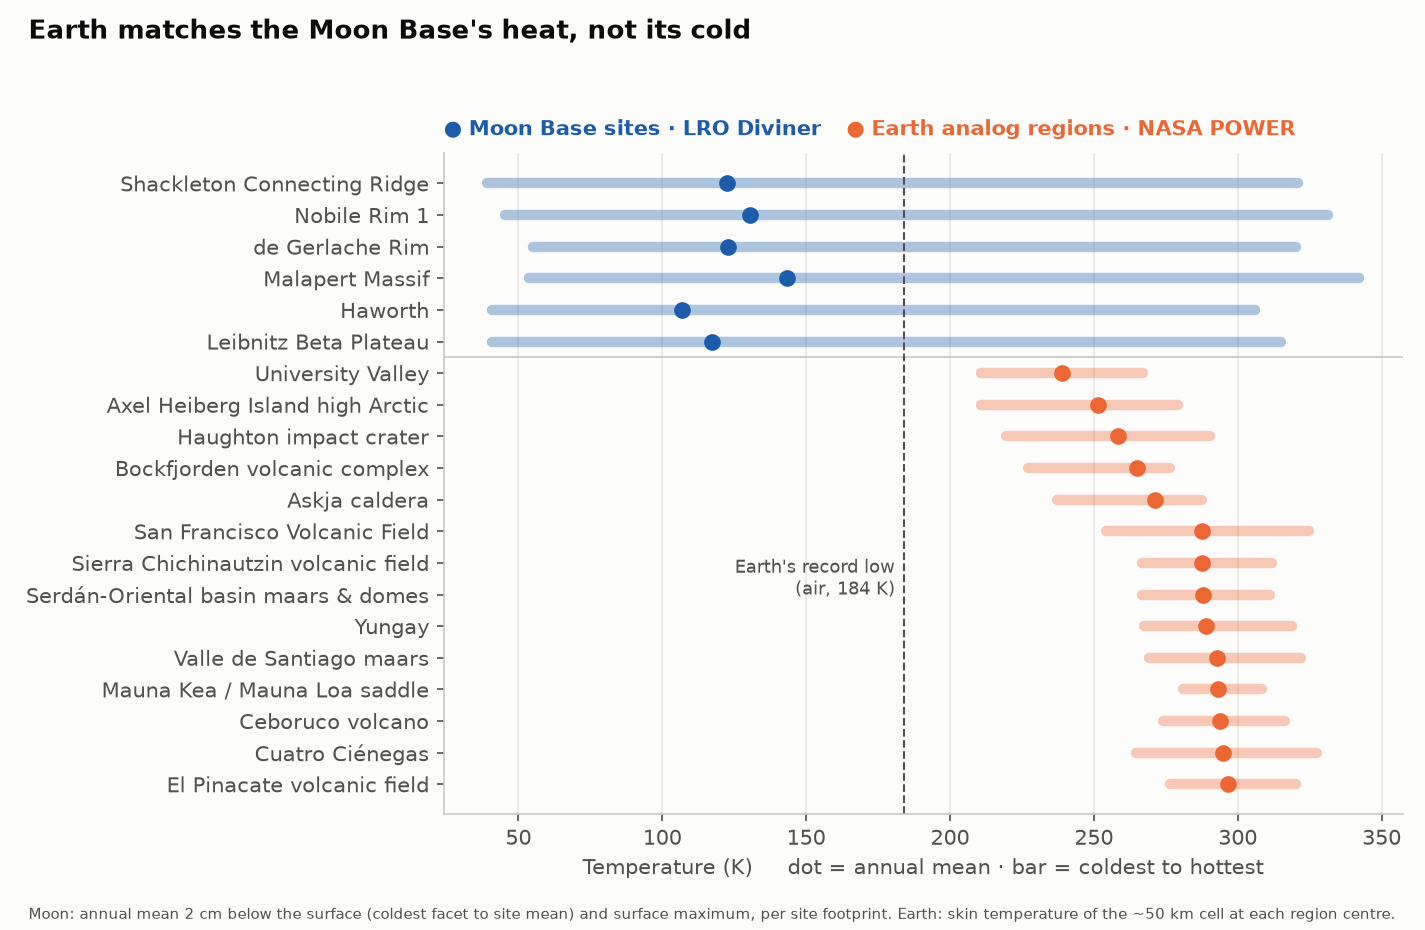
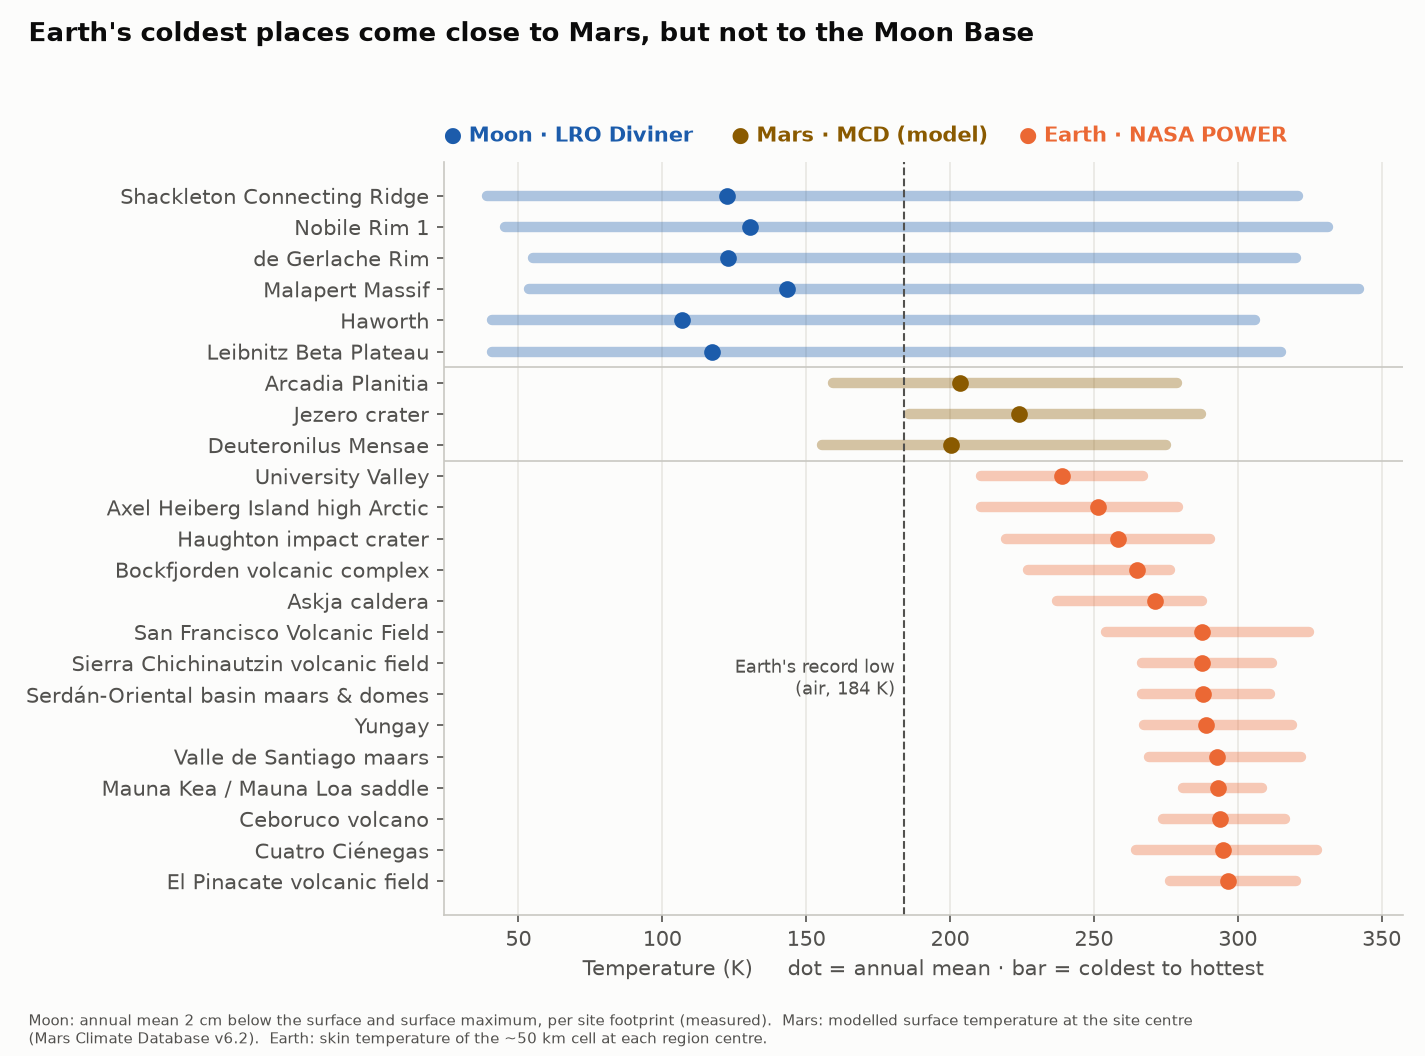
Mars context: surface temperature and pressure at the Mars sites (Mars Climate Database)
- scripts/mars_context.py asks the public web interface of the Mars Climate Database v6.2 (LMD/OU/IAA, supported by
  ESA and CNES) for surface temperature and pressure at the centre of each Mars reference, 12 seasons x 24 local
  hours, and caches the answers in data/processed/mars_context.json. Modelled values, context only, not scored.
- fig8 now shows Moon (Diviner), Mars (MCD) and Earth (NASA POWER) together: the Mars sites average 200-224 K,
  15-38 K colder than University Valley; the Moon Base sites are 95-132 K colder.
- Mars analog cards list mean temperature, range and pressure (680-830 Pa, under 1 % of sea level).
- make extras runs it before thermal_gap.py; README, METHOD, SUBMISSION and TEAM updated.

diff --git a/scripts/thermal_gap.py b/scripts/thermal_gap.py
@@ -61,6 +61,12 @@ for sid, s in cfg["sites"].items():
 moon = {sid: dict(label=short(sid), temp_avg_mean_K=v["temp_avg_mean_K"], temp_avg_min_K=v["temp_avg_min_K"],
                   temp_max_max_K=v["temp_max_max_K"]) for sid, v in div["sites"].items()}
 
+# Mars reference sites (Mars Climate Database, written by scripts/mars_context.py); optional
+mc = PROCESSED / "mars_context.json"
+mars = json.load(open(mc, encoding="utf-8"))["sites"] if mc.exists() else {}
+for m in mars.values():
+    m["label"] = m["label"].split("·", 1)[-1].split("(")[0].strip()
+
 coldest = min(earth, key=lambda k: earth[k]["ts_mean_K"])
 hottest = max(earth, key=lambda k: earth[k]["ts_max_K"])
 summary = dict(
@@ -74,9 +80,15 @@ summary = dict(
     # how much colder each Moon site's mean is than the mean of the coldest Earth region
     gap_to_coldest_earth_mean_K={sid: round(earth[coldest]["ts_mean_K"] - m["temp_avg_mean_K"], 1) for sid, m in moon.items()},
 )
-json.dump(dict(moon=moon, earth=earth, summary=summary,
+if mars:
+    summary["mars_mean_K"] = [min(m["tsurf_mean_K"] for m in mars.values()), max(m["tsurf_mean_K"] for m in mars.values())]
+    summary["mars_gap_to_coldest_earth_mean_K"] = {sid: round(earth[coldest]["ts_mean_K"] - m["tsurf_mean_K"], 1)
+                                                   for sid, m in mars.items()}
+json.dump(dict(moon=moon, mars=mars, earth=earth, summary=summary,
                sources=dict(moon="LRO Diviner polar resource product, NASA PDS Geosciences (Paige et al.): annual mean "
                                  "2 cm below the surface, annual maximum at the surface, per reference footprint",
+                            mars="Mars Climate Database v6.2 (LMD/OU/IAA/ESA/CNES), modelled surface temperature at the "
+                                 "site centre over 12 seasons x 24 local hours (scripts/mars_context.py)",
                             earth="NASA POWER climatology API (MERRA-2): skin temperature TS at the region centre; "
                                   "min/max = coldest/warmest monthly mean of the daily minimum/maximum")),
           open(OUT, "w", encoding="utf-8"), indent=1, ensure_ascii=False)
@@ -87,14 +99,15 @@ import matplotlib
 matplotlib.use("Agg")
 import matplotlib.pyplot as plt
 
-SURF, INK, INK2, MOON, EARTH = "#fcfcfb", "#0b0b0b", "#52514e", "#1c5cab", "#eb6834"
+SURF, INK, INK2, MOON, EARTH, MARS = "#fcfcfb", "#0b0b0b", "#52514e", "#1c5cab", "#eb6834", "#8a5a00"
 plt.rcParams.update({"font.family": "DejaVu Sans", "font.size": 10, "axes.edgecolor": "#c9c8c2", "axes.labelcolor": INK2,
                      "xtick.color": INK2, "ytick.color": INK2, "figure.facecolor": SURF, "axes.facecolor": SURF,
                      "savefig.facecolor": SURF})
 rows = [(m["label"], m["temp_avg_min_K"], m["temp_avg_mean_K"], m["temp_max_max_K"], MOON) for m in moon.values()]
+rows += [(m["label"], m["tsurf_min_K"], m["tsurf_mean_K"], m["tsurf_max_K"], MARS) for m in mars.values()]
 rows += [(e["label"].split(",")[0], e["ts_min_K"], e["ts_mean_K"], e["ts_max_K"], EARTH)
          for e in sorted(earth.values(), key=lambda e: e["ts_mean_K"])]
-fig, ax = plt.subplots(figsize=(9.5, 6.2))
+fig, ax = plt.subplots(figsize=(9.5, 6.2 + 0.28 * len(mars)))
 for i, (lab, lo, mid, hi, col) in enumerate(rows):
     y = len(rows) - 1 - i
     ax.plot([lo, hi], [y, y], color=col, lw=5, alpha=0.35, solid_capstyle="round")
@@ -105,16 +118,20 @@ lowrec = div["earth_record_low_K"]
 ax.axvline(lowrec, color=INK2, lw=1, ls="--")
 ax.text(lowrec - 3, len(earth) / 2 - 0.5, f"Earth's record low\n(air, {lowrec:.0f} K)", ha="right", va="center",
         fontsize=8.5, color=INK2)
-ax.text(0.0, 1.02, "● Moon Base sites · LRO Diviner", transform=ax.transAxes, ha="left", va="bottom", color=MOON, fontweight="bold")
-ax.text(0.42, 1.02, "● Earth analog regions · NASA POWER", transform=ax.transAxes, ha="left", va="bottom", color=EARTH, fontweight="bold")
+ax.text(0.0, 1.02, "● Moon · LRO Diviner", transform=ax.transAxes, ha="left", va="bottom", color=MOON, fontweight="bold")
+if mars:
+    ax.axhline(len(earth) + len(mars) - 0.5, color="#c9c8c2", lw=0.8)
+    ax.text(0.30, 1.02, "● Mars · MCD (model)", transform=ax.transAxes, ha="left", va="bottom", color=MARS, fontweight="bold")
+ax.text(0.60 if mars else 0.42, 1.02, "● Earth · NASA POWER", transform=ax.transAxes, ha="left", va="bottom", color=EARTH, fontweight="bold")
 ax.set_xlabel("Temperature (K)     dot = annual mean · bar = coldest to hottest")
 ax.grid(axis="x", color="#e8e7e2", lw=0.8); ax.set_axisbelow(True)
 for sp in ["top", "right"]:
     ax.spines[sp].set_visible(False)
-fig.suptitle("Earth matches the Moon Base's heat, not its cold", x=0.02, ha="left", fontsize=12.5, color=INK,
-             fontweight="bold")
-fig.text(0.02, 0.012, "Moon: annual mean 2 cm below the surface (coldest facet to site mean) and surface maximum, per site footprint. "
-         "Earth: skin temperature of the ~50 km cell at each region centre.", fontsize=7.2, color=INK2)
+fig.suptitle("Earth's coldest places come close to Mars, but not to the Moon Base" if mars else
+             "Earth matches the Moon Base's heat, not its cold", x=0.02, ha="left", fontsize=12.5, color=INK, fontweight="bold")
+fig.text(0.02, 0.012, "Moon: annual mean 2 cm below the surface and surface maximum, per site footprint (measured)."
+         + ("  Mars: modelled surface temperature at the site centre\n(Mars Climate Database v6.2)." if mars else "")
+         + "  Earth: skin temperature of the ~50 km cell at each region centre.", fontsize=7.2, color=INK2)
 FIGURES.mkdir(parents=True, exist_ok=True)
-fig.tight_layout(rect=(0, 0.03, 1, 0.95)); fig.savefig(FIGURES / "fig8_thermal_gap.png", dpi=150)
+fig.tight_layout(rect=(0, 0.05, 1, 0.95)); fig.savefig(FIGURES / "fig8_thermal_gap.png", dpi=150)
 print("wrote", FIGURES / "fig8_thermal_gap.png")

diff --git a/scripts/mars_context.py b/scripts/mars_context.py
@@ -1,0 +1,91 @@
+"""Mars context: surface temperature and pressure at the Mars reference sites, next to Earth.
+
+The Moon sites have LRO Diviner measurements for "where Earth stops being an analog". Mars has no equivalent
+per-site product in our pipeline, so we use the Mars Climate Database v6.2 (LMD/OU/IAA, supported by ESA and CNES),
+a climate MODEL validated against orbiter data, through its public web interface. For the centre of each Mars
+reference we ask for surface temperature and surface pressure at every season (areocentric longitude Ls, every 30°
+in the rows we keep) and every local hour, with the "climatology" dust scenario.
+
+These are modelled values at a ~5.6° grid interpolated to the point, not measurements, and they are context only:
+nothing here is scored. scripts/thermal_gap.py (run after this one) puts them next to the Moon and Earth in fig8.
+
+Outputs
+  data/processed/mars_context.json      (the answers are cached there, so the script also runs offline)
+Usage:  python scripts/mars_context.py [--refresh]
+"""
+# AI-assisted (Claude, Anthropic); reviewed by the team.
+import sys, json, re, urllib.request
+from pathlib import Path
+sys.path.insert(0, str(Path(__file__).resolve().parents[1]))
+import numpy as np
+from pen.config import load_config, PROCESSED
+
+BASE = "https://www-mars.lmd.jussieu.fr/mcd_python/"
+QUERY = ("cgi-bin/mcdcgi.py?var1=tsurf&var2=ps&var3=none&var4=none&datekeyhtml=1&ls=all&localtime=all&year=2024&month=1"
+         "&day=1&hours=0&minutes=0&seconds=0&julian=2460310.5&martianyear=37&sol=1&latitude={lat:.3f}&longitude={lon:.3f}"
+         "&altitude=0.&zkey=3&isfixedlt=off&dust=1&hrkey=1&averaging=off&dpi=80&islog=off&colorm=jet&minval=&maxval="
+         "&proj=cyl&plat=&plon=&trans=&iswind=off&latpoint=&lonpoint=")
+OUT = PROCESSED / "mars_context.json"
+TRIPLE_POINT_PA = 611.657      # water: below this pressure liquid water is not stable at any temperature
+EARTH_SEA_LEVEL_PA = 101_325.0
+
+cfg = load_config()
+res = json.load(open(PROCESSED / "results.json", encoding="utf-8"))
+old = json.load(open(OUT, encoding="utf-8")) if OUT.exists() else {}
+refresh = "--refresh" in sys.argv
+
+
+def blocks(txt):
+    """The text file holds one table per variable: rows = Ls, columns = local time. Returns {title: 2D array}."""
+    out, title, rows = {}, None, []
+    for line in txt.splitlines() + ["###"]:
+        m = re.match(r"### Columns 2\+ are (.+)", line)
+        if line.startswith("###"):          # any header line closes the table before it
+            if title and rows:
+                out[title] = np.array(rows)
+                rows = []
+            title = m.group(1).strip() if m else title
+        elif re.match(r"^[+-]?\d", line) and "||" in line:
+            rows.append([float(v) for v in line.split("||")[1].split()])
+    return out
+
+
+def mcd_point(lon, lat):
+    with urllib.request.urlopen(BASE + QUERY.format(lon=lon, lat=lat), timeout=180) as r:
+        html = r.read().decode("utf-8", "replace")
+    href = re.search(r"\.\./(txt/[0-9a-f]+\.txt)", html).group(1)
+    with urllib.request.urlopen(BASE + href, timeout=60) as r:
+        b = blocks(r.read().decode("utf-8", "replace"))
+    t = next(v for k, v in b.items() if "temperature" in k.lower())[:-1, :-1]   # drop Ls = 360 and hour 24 (duplicates)
+    p = next(v for k, v in b.items() if "pressure" in k.lower())[:-1, :-1]
+    return dict(tsurf_mean_K=round(float(t.mean()), 1), tsurf_min_K=round(float(t.min()), 1),
+                tsurf_max_K=round(float(t.max()), 1), ps_mean_Pa=round(float(p.mean())),
+                ps_min_Pa=round(float(p.min())), ps_max_Pa=round(float(p.max())),
+                share_above_freezing=round(float((t > 273.15).mean()), 3), n_samples=int(t.size))
+
+
+mars = {}
+for sid, s in cfg["sites"].items():
+    if s["body"] != "mars" or s["role"] != "reference" or sid not in res["site_centers"]:
+        continue
+    lon, lat = res["site_centers"][sid]
+    cached = old.get("sites", {}).get(sid)
+    if cached and not refresh:
+        mars[sid] = cached
+    else:
+        mars[sid] = dict(label=s["label"], lon=round(lon, 3), lat=round(lat, 3), **mcd_point(lon, lat))
+        print("MCD", sid, mars[sid], flush=True)
+
+summary = dict(
+    mars_mean_K=[min(m["tsurf_mean_K"] for m in mars.values()), max(m["tsurf_mean_K"] for m in mars.values())],
+    mars_min_K=min(m["tsurf_min_K"] for m in mars.values()),
+    mars_max_K=max(m["tsurf_max_K"] for m in mars.values()),
+    mars_pressure_Pa=[min(m["ps_min_Pa"] for m in mars.values()), max(m["ps_max_Pa"] for m in mars.values())],
+    pressure_share_of_earth_sea_level=[round(min(m["ps_mean_Pa"] for m in mars.values()) / EARTH_SEA_LEVEL_PA, 4),
+                                       round(max(m["ps_mean_Pa"] for m in mars.values()) / EARTH_SEA_LEVEL_PA, 4)],
+)
+json.dump(dict(sites=mars, summary=summary, water_triple_point_Pa=TRIPLE_POINT_PA, earth_sea_level_Pa=EARTH_SEA_LEVEL_PA,
+               source="Mars Climate Database v6.2 (LMD/OU/IAA/ESA/CNES), web interface, climatology scenario: modelled "
+                      "surface temperature and pressure at the site centre, 12 seasons x 24 local hours"),
+          open(OUT, "w", encoding="utf-8"), indent=1, ensure_ascii=False)
+print("summary", summary)

diff --git a/app/streamlit_app.py b/app/streamlit_app.py
@@ -81,7 +81,20 @@ def cant_reproduce(ref, body):
                  f"Water ice thermally stable within 1 m in **{dv['share_ice_stable_within_1m']:.0%}** of it "
                  f"(median depth {dv['median_ice_depth_m']*100:.0f} cm)",
                  f"Surface peaks reach {dv['temp_max_max_K']:.0f} K ({dv['temp_max_max_K']-273.15:.0f} °C)"] + items
+    mc = mars_context().get("sites", {}).get(ref)
+    if mc:   # modelled, not measured: Mars Climate Database v6.2 (scripts/mars_context.py)
+        items = [f"Surface averages **{mc['tsurf_mean_K']:.0f} K** ({mc['tsurf_mean_K']-273.15:.0f} °C) over the year, from "
+                 f"{mc['tsurf_min_K']:.0f} K at night to {mc['tsurf_max_K']:.0f} K at midday; above freezing only "
+                 f"{mc['share_above_freezing']:.0%} of the time (Mars Climate Database, model)",
+                 f"Air pressure **{mc['ps_mean_Pa']:.0f} Pa**, {mc['ps_mean_Pa']/101325:.1%} of Earth's sea level and close to "
+                 f"water's triple point (612 Pa)"] + items
     return items
+
+
+@st.cache_data(show_spinner=False)
+def mars_context():
+    p = PROCESSED / "mars_context.json"
+    return json.load(open(p, encoding="utf-8")) if p.exists() else {}
 
 refs = [r for r in cfg["sites"] if cfg["sites"][r]["role"] == "reference" and r in set(win.reference)]
 cands = [c for c in cfg["sites"] if cfg["sites"][c]["role"] == "candidate" and c in set(win.site)]

diff --git a/README.md b/README.md
@@ -60,6 +60,10 @@ the official 5 m LOLA DEMs of six Moon Base sites, five of them inside NASA's Ar
   search, University Valley in Antarctica, has a mean skin temperature of 239 K (NASA POWER). The Moon Base sites
   average 107–144 K, which is 95–132 K colder. The heat is within reach: Earth's desert regions peak at up to 328 K,
   against lunar surface peaks of 306–342 K (fig8).
+- **Mars is a much closer thermal match than the Moon.** The Mars Climate Database (a model, v6.2) gives the three
+  Mars sites a mean surface temperature of 200–224 K, only 15–38 K colder than University Valley, with midday peaks
+  of 275–287 K. What Earth cannot give is the air: 680–830 Pa on average, under 1 % of sea level and close to water's
+  triple point (612 Pa). Every Mars analog card now shows these numbers.
 - **Analog in time:** polar sites (Haughton, Axel Heiberg, Svalbard, University Valley) give 4–7 h/day of
   lunar-pole-like low Sun (0–7°) around the equinoxes; sites below 40° latitude get about 1 h/day.
 - **NASA APIs in the app** ([api.nasa.gov](https://api.nasa.gov/)): Moon Trek WMTS (LRO NAC south-pole mosaic, 1 m),
@@ -86,6 +90,7 @@ the official 5 m LOLA DEMs of six Moon Base sites, five of them inside NASA's Ar
 | Sensitivity to weights and window size | `scripts/sensitivity.py`, fig5 | Victor |
 | LRO Diviner temperature and ice context for the Moon sites | `scripts/diviner_context.py`, fig6 | D. Lizárraga |
 | Diviner vs Earth analog regions (NASA POWER skin temperature) | `scripts/thermal_gap.py`, fig8 | D. Lizárraga |
+| Mars surface temperature and pressure per Mars site (Mars Climate Database), in fig8 and on the Mars analog cards | `scripts/mars_context.py` | D. Lizárraga |
 | Moon/Mars data paragraph for the project page; Mars DTMs checked against their headers (metres above the MOLA geoid, R = 3,396,190 m) | `docs/SUBMISSION.md` | D. Lizárraga |
 | Analog in time (hours/day of 0–7° Sun per month) | `pen/sun.py`, fig3 | Victor |
 | Dark app with 3D globe / flat map, colour-by-dimension, NASA reference analog markers, dynamic `DIMENSIONS` support, analog card with low-Sun previews, validation tab, CSV download | `app/` | Paul · Aaron |
@@ -124,7 +129,7 @@ make data        # python scripts/download_data.py
 make pipeline    # python scripts/run_pipeline.py
 make validate    # python scripts/validate_illumination.py
 make figures     # python scripts/make_figures.py
-make extras      # thumbnails, known-analog test, sensitivity, Diviner context, thermal gap
+make extras      # thumbnails, known-analog test, sensitivity, Diviner and Mars context, thermal gap
 make far         # far-horizon light validation (~4 min, needs the 230 MB LOLA polar DEM)
 make imagery     # real NASA imagery for the analog cards (Trek WMTS + GIBS, ~150 requests, no API key)
 make eonet       # refresh the offline EONET snapshot
@@ -230,6 +235,10 @@ mean is colder than Earth's record low (184 K, Vostok), and the share where wate
 POWER climatology API (MERRA-2, 2001–2025, no key) for the skin temperature TS (annual mean) and for TS_MIN / TS_MAX
 (coldest / warmest monthly mean of the daily extremes), and writes `thermal_gap.json` and fig8. This is region scale
 (a ~50 km model cell, so Mauna Kea's cell is mostly low ground), and context only: it is not scored.
+For Mars there is no per-site product like Diviner in our pipeline, so `scripts/mars_context.py` asks the public web
+interface of the Mars Climate Database v6.2 for surface temperature and pressure at the centre of each Mars reference,
+over 12 seasons × 24 local hours with the climatology dust scenario, and writes `mars_context.json`. These are
+modelled values, not measurements; they appear in fig8 and in the "Earth can't reproduce" list of the Mars cards.
 
 **11 · Analog in time** (`pen/sun.py`). Solar elevation from the standard declination and hour-angle formula (no
 refraction), sampled every 3 min for every day of the year at each region's centre latitude, gives the hours per day
@@ -265,6 +274,7 @@ More detail and references: [`docs/METHOD.md`](docs/METHOD.md).
 | [Moon Trek / Mars Trek WMTS](https://trek.nasa.gov/tiles/apidoc/trekAPI.html?body=moon) (via api.nasa.gov) | **NASA** SSERVI / JPL | Real view of Moon (LRO NAC mosaic) and Mars (CTX mosaic) windows |
 | [GIBS](https://nasa-gibs.github.io/gibs-api-docs/) (via api.nasa.gov) | **NASA** ESDIS | Real view of Earth windows (Landsat WELD, HLS, MODIS) |
 | [EONET v3](https://eonet.gsfc.nasa.gov/docs/v3) (via api.nasa.gov) | **NASA** Earth Observatory | Live field-safety check (open natural events near the site) |
+| [Mars Climate Database v6.2](https://www-mars.lmd.jussieu.fr/mcd_python/) | LMD/OU/IAA with **ESA** and CNES | Modelled surface temperature and pressure at the Mars sites (context) |
 | [Copernicus DEM GLO-30](https://registry.opendata.aws/copernicus-dem/) | **ESA** (Space Agency Partner) | Earth candidate terrain (14 one-degree tiles) |
 
 ![Diviner](figures/fig6_diviner.png)
@@ -292,6 +302,8 @@ RADARSAT / Sentinel-1 radar (CSA / ESA).
 - Real imagery is context, not scored. The LRO NAC mosaic averages many Sun angles, so it does not show the 3° Sun
   of the preview; the Landsat WELD mosaic is ~2010 and has no Antarctic coverage (MODIS 250 m is used there).
 - EONET keeps some events "open" for months (e.g. Kīlauea), so the list is a prompt to check, not a hazard map.
+- The Mars temperatures and pressures come from a climate model (Mars Climate Database), interpolated to the site
+  centre, while the Moon numbers are Diviner measurements per footprint. They are context, not scored.
 - Diviner is used as context for the Moon sites, not scored: there is no Earth layer with comparable meaning yet.
 - Deuteronilus Mensae is our "buried ice" Mars reference because orbital radar (SHARAD) found debris aprons of
   more than 80 % water ice across that region (Plaut et al. 2009; Petersen et al. 2018). Our DTM lies inside it

diff --git a/docs/SUBMISSION.md b/docs/SUBMISSION.md
@@ -58,6 +58,8 @@ lunar-pole light: an "analog in time" that tells field teams the best weeks to t
    - Diviner vs Earth's cold analogs (NASA POWER): University Valley, Antarctica, the coldest region we search, has a
      mean skin temperature of 239 K, still 95–132 K warmer than the Moon Base sites (107–144 K). Lunar surface peaks
      (306–342 K) are within reach of Earth's deserts (up to 328 K). See fig8.
+   - Mars is a closer thermal match: the Mars Climate Database (model) gives our three Mars sites a mean surface
+     temperature of 200–224 K, 15–38 K colder than University Valley, at 680–830 Pa (under 1 % of sea level).
    - Polar sites give 4–7 h/day of lunar-pole-like light around the equinoxes.
 4. *Benefits:* regional screeners say which region to look at; P.E.N. picks the exact 6 km site and the best weeks.
    Choose and schedule analog field tests for rover vision, EVA lighting and landing-hazard rehearsal.
@@ -95,6 +97,8 @@ mid-latitude region with buried ice), and the CTX global mosaic
 
 **Space Agency Partner data and other references:**
 - ESA Copernicus DEM GLO-30 (via AWS Open Data)
+- Mars Climate Database v6.2 (LMD/OU/IAA, supported by ESA and CNES): modelled surface temperature and pressure at
+  the Mars sites
 - Open-source libraries: rasterio, GDAL, NumPy, SciPy, pandas, Matplotlib, Streamlit, pydeck
 - Literature: Mazarico et al. 2011; Barker et al. (PGDA); Paige et al. (Diviner); Klingelhoefer et al. 2014 (Mauna Kea
   ISRU tests, NTRS 20140008708); McKay et al. 2003 (Atacama); Plaut et al. 2009 and Petersen et al. 2018 (Deuteronilus Mensae ice, SHARAD); Marinova et al. 2022 (University Valley);

diff --git a/docs/TEAM.md b/docs/TEAM.md
@@ -50,7 +50,7 @@ Checkpoint = 10-minute stand-up: what's done, what's blocked, and what's next.
 - ✅ Lunar references Site06 (Nobile Rim 1, Artemis candidate region) and Site11 (de Gerlache Rim) added.
 - ✅ **B1** Review of `scripts/validate_far_horizons.py` and the Diviner numbers against the PDS labels (PR #1): method confirmed, `ray_reach` and the AVGVISIB scale guard added, `temp_avg` = 2 cm below the surface, mean error stated as 2.0–3.2 pp, DEM-edge caveat in the README.
 - ✅ **B3** Mars reference with buried ice: Deuteronilus Mensae (CTX DTM J13_049991_2248 from the USGS STAC). Also two more Artemis candidate regions, Haworth and Leibnitz Beta Plateau (ρ 0.99 and 0.98 vs NASA with far horizons). Full pipeline re-run with 9 targets; the 6 earlier targets came out identical.
-- ✅ **B4** Moon/Mars data paragraph for Angel's project page (in `docs/SUBMISSION.md`), plus Diviner vs Earth analog regions with NASA POWER (fig8).
+- ✅ **B4** Moon/Mars data paragraph for Angel's project page (in `docs/SUBMISSION.md`), plus Diviner vs Earth analog regions with NASA POWER (fig8) and Mars surface temperature and pressure from the Mars Climate Database (`scripts/mars_context.py`).
 
 ### Diego Dona — Earth data & validation
 - ✅ 10 new Copernicus tiles (4 Mexico, Svalbard, Axel Heiberg, University Valley, Askja, Atacama, Mauna Kea) and the known-analog test, now with 10 sites (Cinder Lake Crater Field and the HMP Research Station added).

diff --git a/docs/METHOD.md b/docs/METHOD.md
@@ -49,6 +49,9 @@ the site where water ice is thermally stable at the surface or within 1 m. These
 reproduce" panel of every analog card. They are not scored, because no Earth layer has a comparable meaning.
 `scripts/thermal_gap.py` compares them with NASA POWER skin temperatures (MERRA-2 climatology) at the centre of each
 Earth region: the coldest region (University Valley, 239 K mean) is still 95–132 K warmer than the Moon Base sites.
+For the Mars references, `scripts/mars_context.py` takes modelled surface temperature and pressure from the Mars
+Climate Database v6.2 (mean 200–224 K, 680–830 Pa): 15–38 K colder than University Valley, at under 1 % of Earth's
+sea-level pressure.
 
 **Far-horizon test (Moon only).** `scripts/validate_far_horizons.py` recomputes illumination for the lunar
 references with the LOLA 85°S 40 m DEM, horizons traced up to 150 km in exact 3D on the lunar sphere, and 1,728 real
